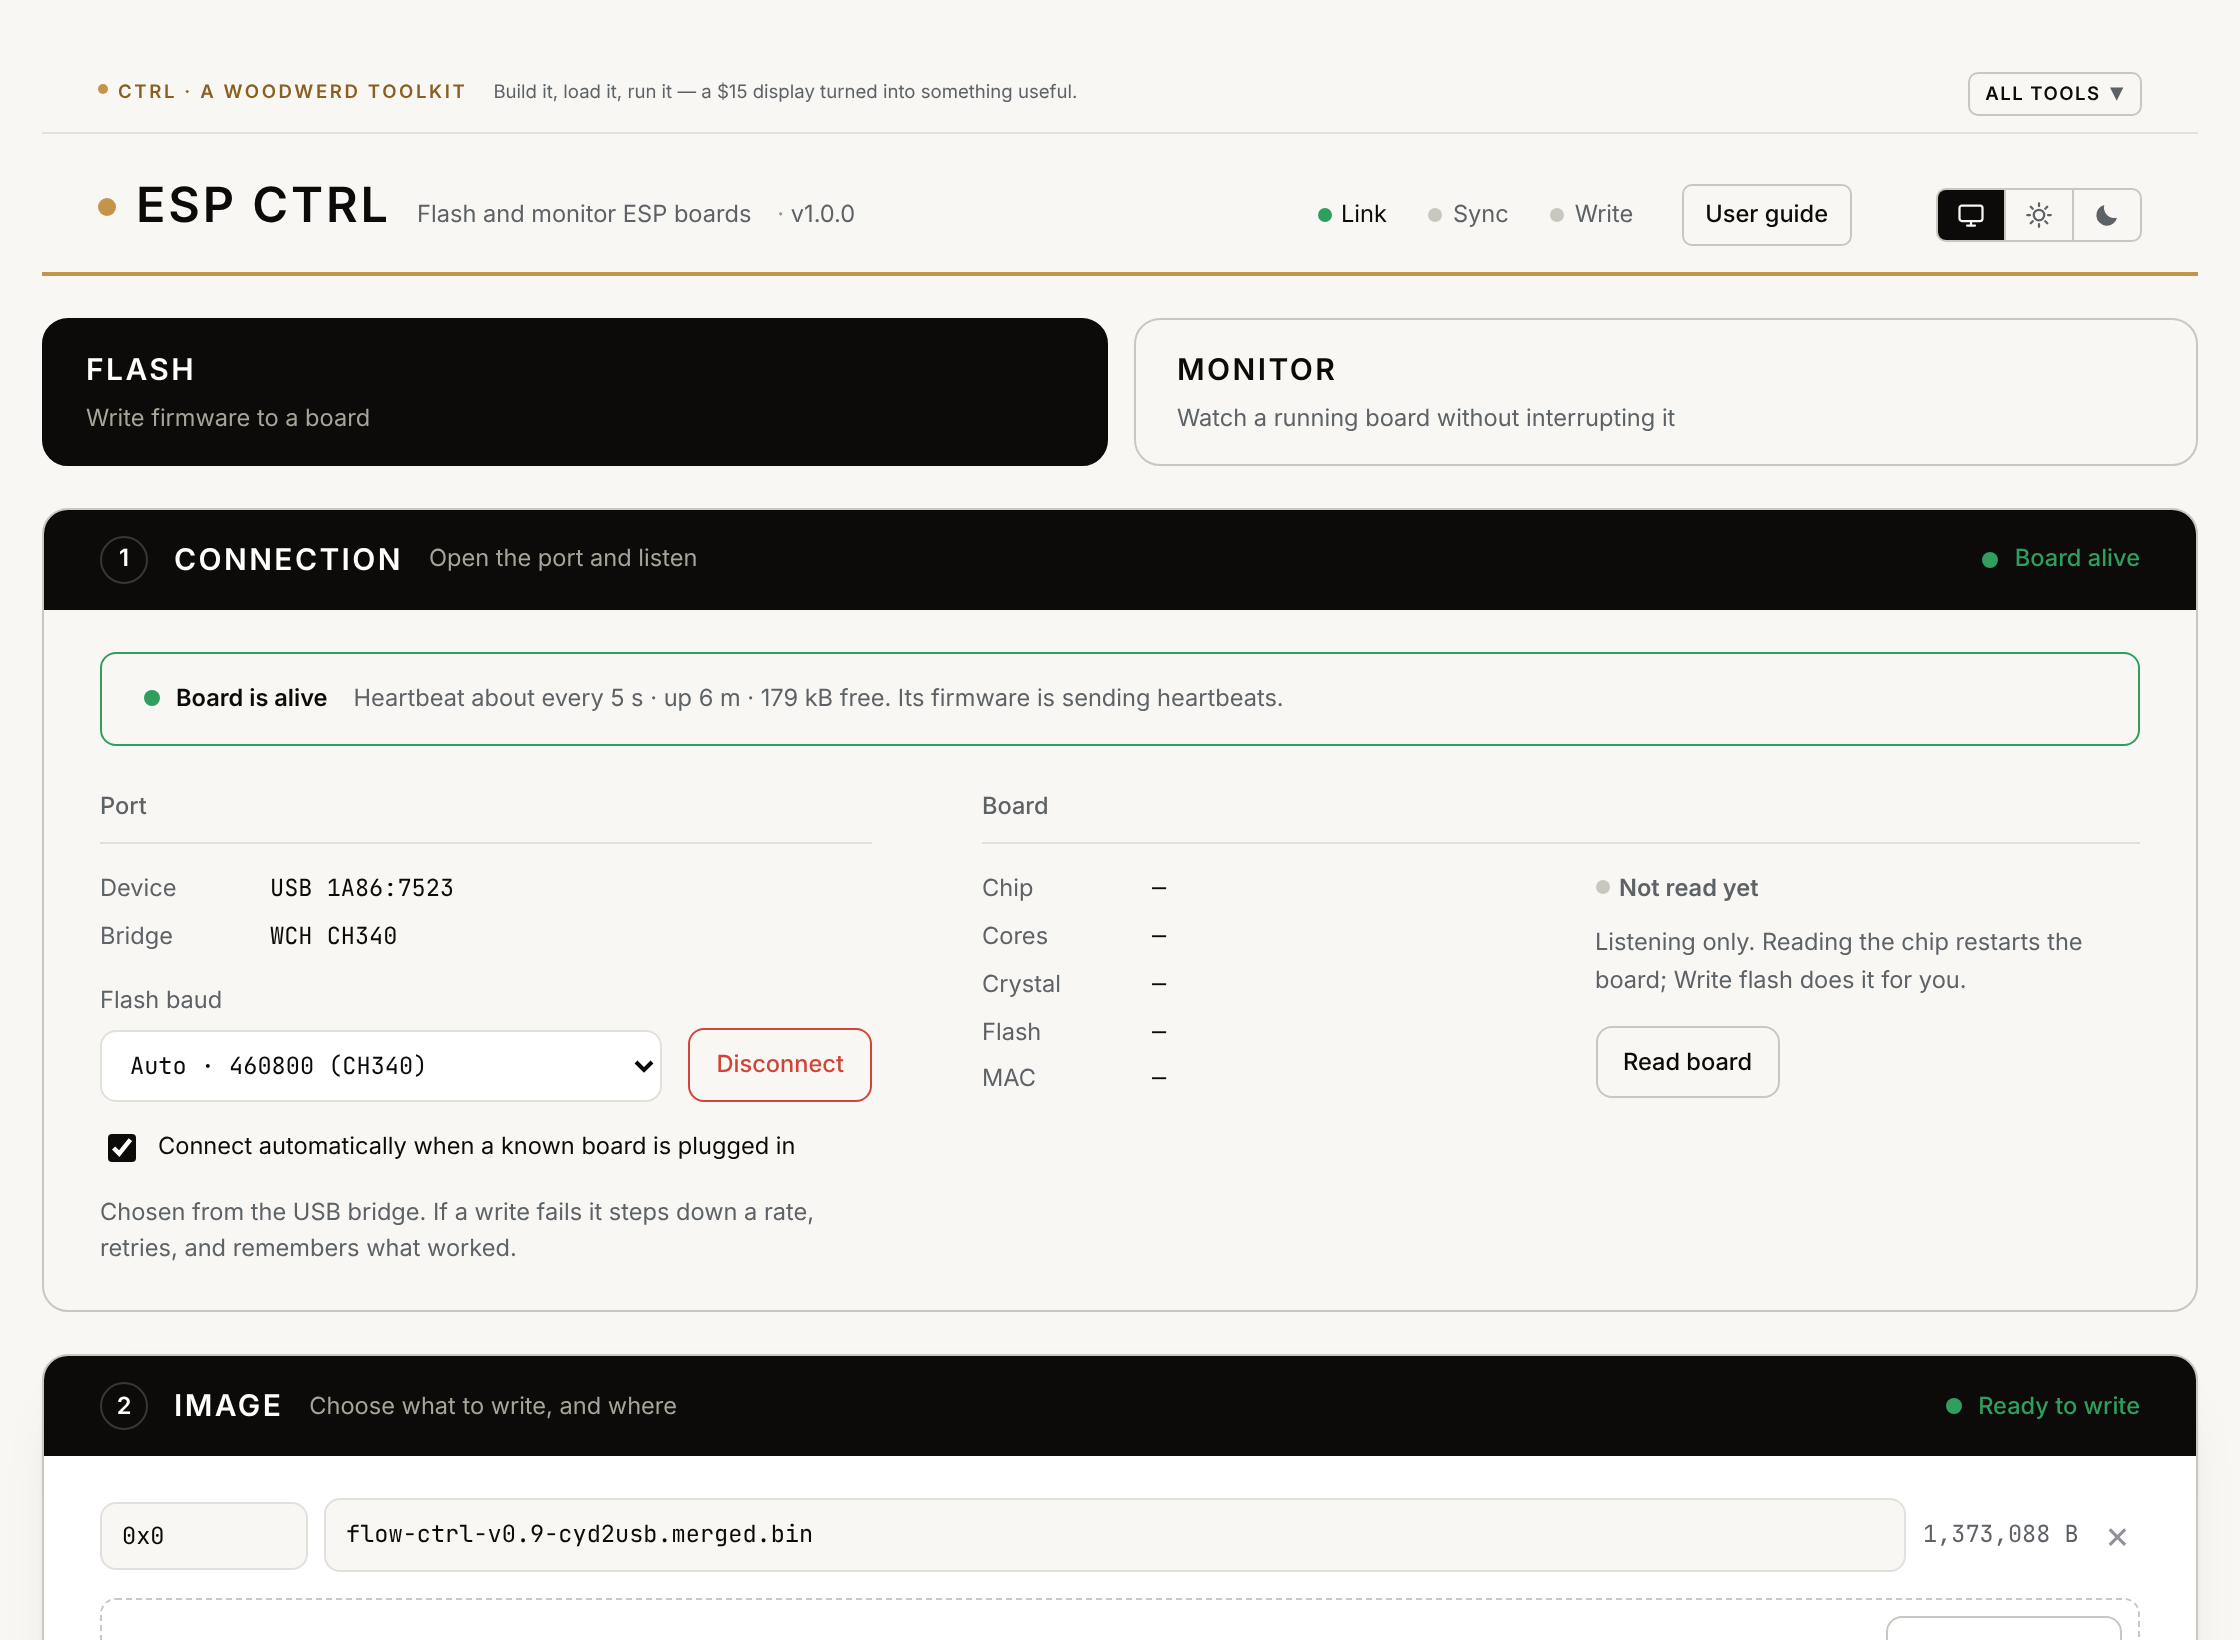
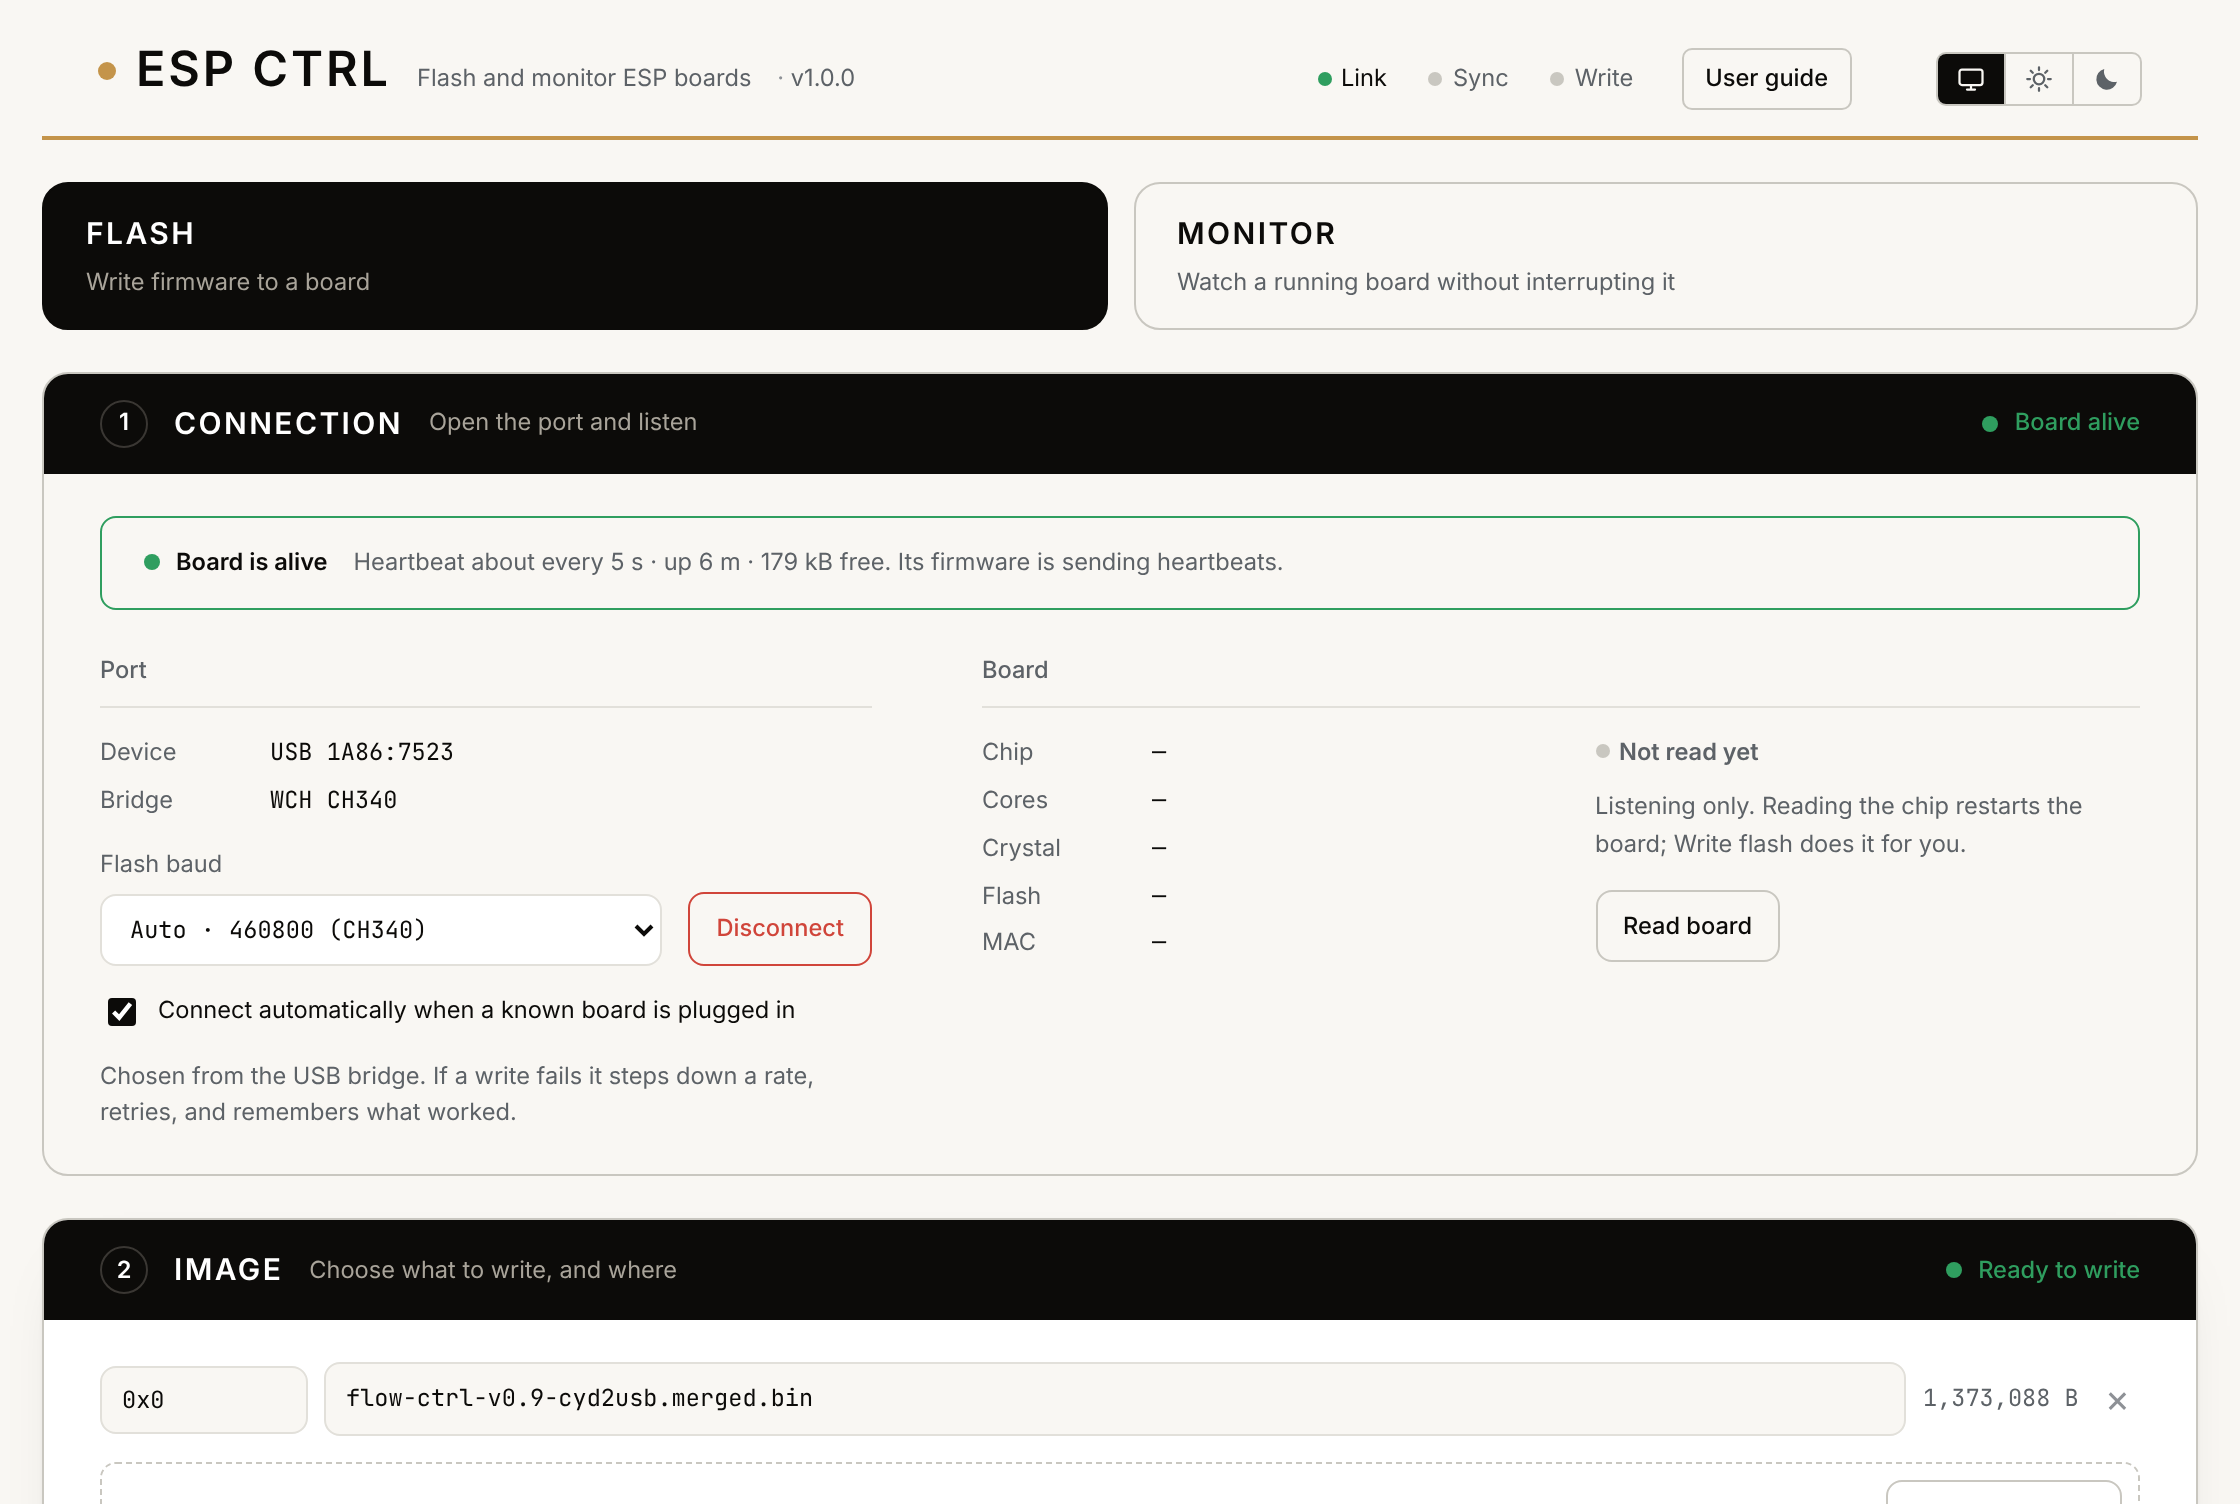
Bring the README and lead screenshot up to v1.0.0

diff --git a/README.md b/README.md
@@ -44,8 +44,8 @@ There is no build step for the app itself: `app.js` is plain, readable JavaScrip
 
 ## Status and feedback
 
-v0.9 is a public beta. So far it has been tested on Cheap Yellow Display (ESP32 + CH340) boards with Chrome on macOS. Reports
-from other boards, USB bridges, Windows and Linux are exactly what it needs before 1.0: please
+ESP Ctrl is at v1.0.0. So far it has been tested on Cheap Yellow Display (ESP32 + CH340) boards with Chrome on macOS. Reports
+from other boards, USB bridges, Windows and Linux are exactly what it needs next: please
 [open an issue](https://github.com/WOODWERD/esp-ctrl/issues) and say which board, which USB bridge (shown
 in the Port panel) and which browser.
 

diff --git a/CHANGELOG.md b/CHANGELOG.md
@@ -2,6 +2,7 @@
 
 ## Site — 2026-11-01
 
+- The lead screenshot no longer shows the old toolkit strip, and the README states the current version.
 - The toolkit strip now reads WOODWERD Toolkit, Tools for everyday makers, and All tools lists Cable Ctrl under Print.
 - All tools now lists File Ctrl under Print.
 
